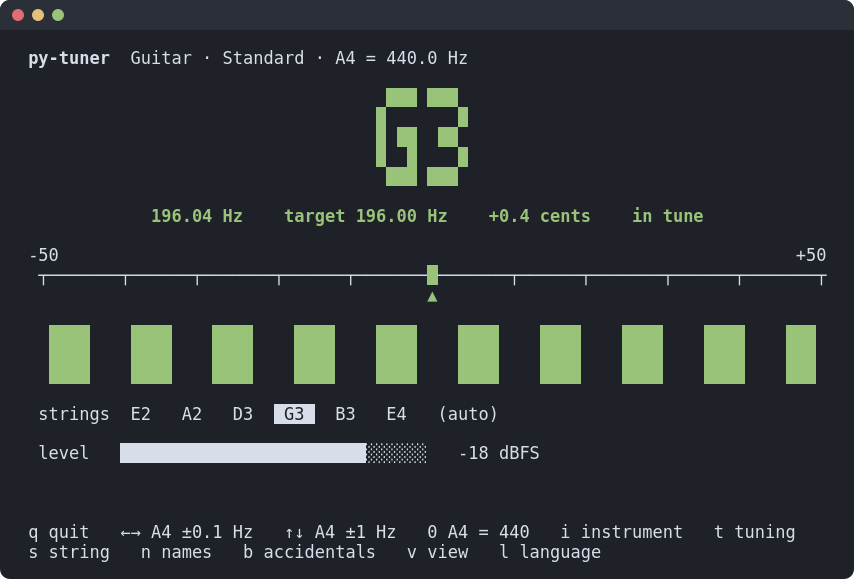
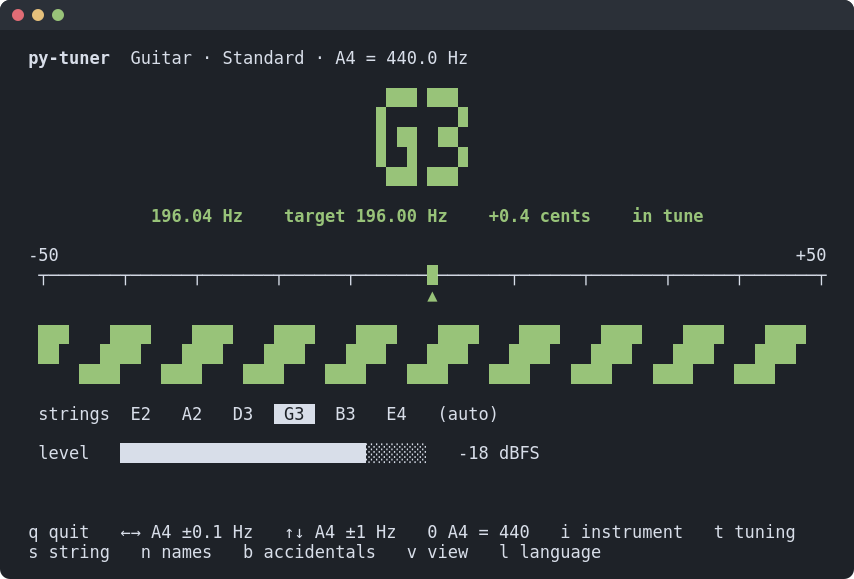
tools/manual_images.py: without the warnings of Qt's offscreen platform; the terminal pictures made again

Changed region(s): [[0.0304, 0.5596, 0.9742, 0.6839]]

diff --git a/tools/manual_images.py b/tools/manual_images.py
@@ -30,7 +30,15 @@ def main() -> int:
     os.environ["QT_QPA_PLATFORM"] = "offscreen"
     os.environ["XDG_CONFIG_HOME"] = tempfile.mkdtemp(prefix="py-tuner-images-")
     import shiboken6
+    from PySide6.QtCore import qInstallMessageHandler
     from PySide6.QtWidgets import QApplication
+
+    # La plataforma "offscreen" avisa con cada ventana que no sabe de tamaños sugeridos: no importa aquí.
+    def quiet(kind, context, message):
+        if "propagateSizeHints" not in message:
+            print(message, file=sys.stderr)
+
+    qInstallMessageHandler(quiet)
 
     from py_tuner import interface, notes
     from py_tuner.gui import window
